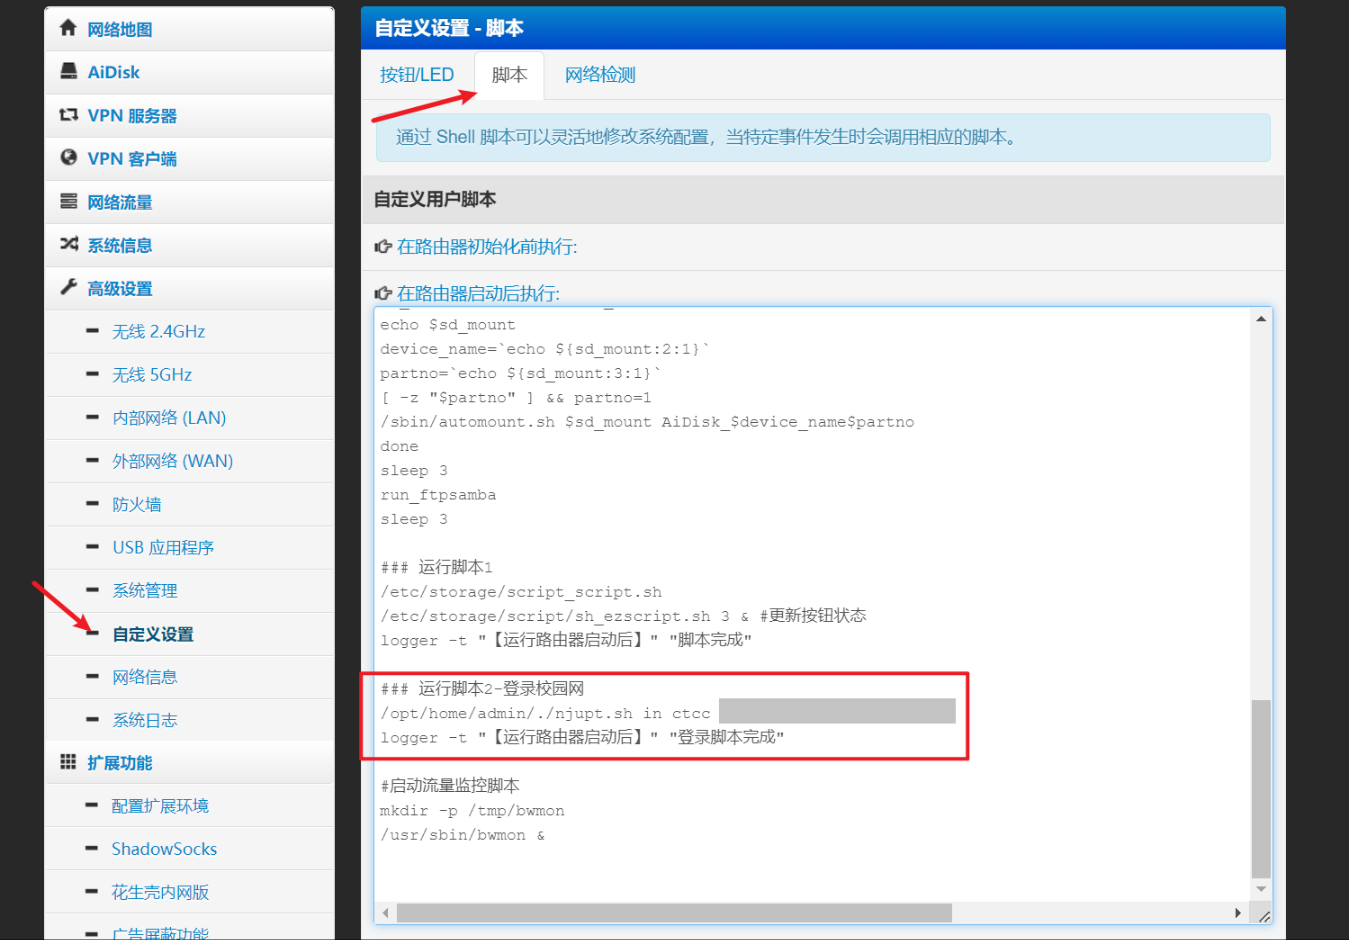
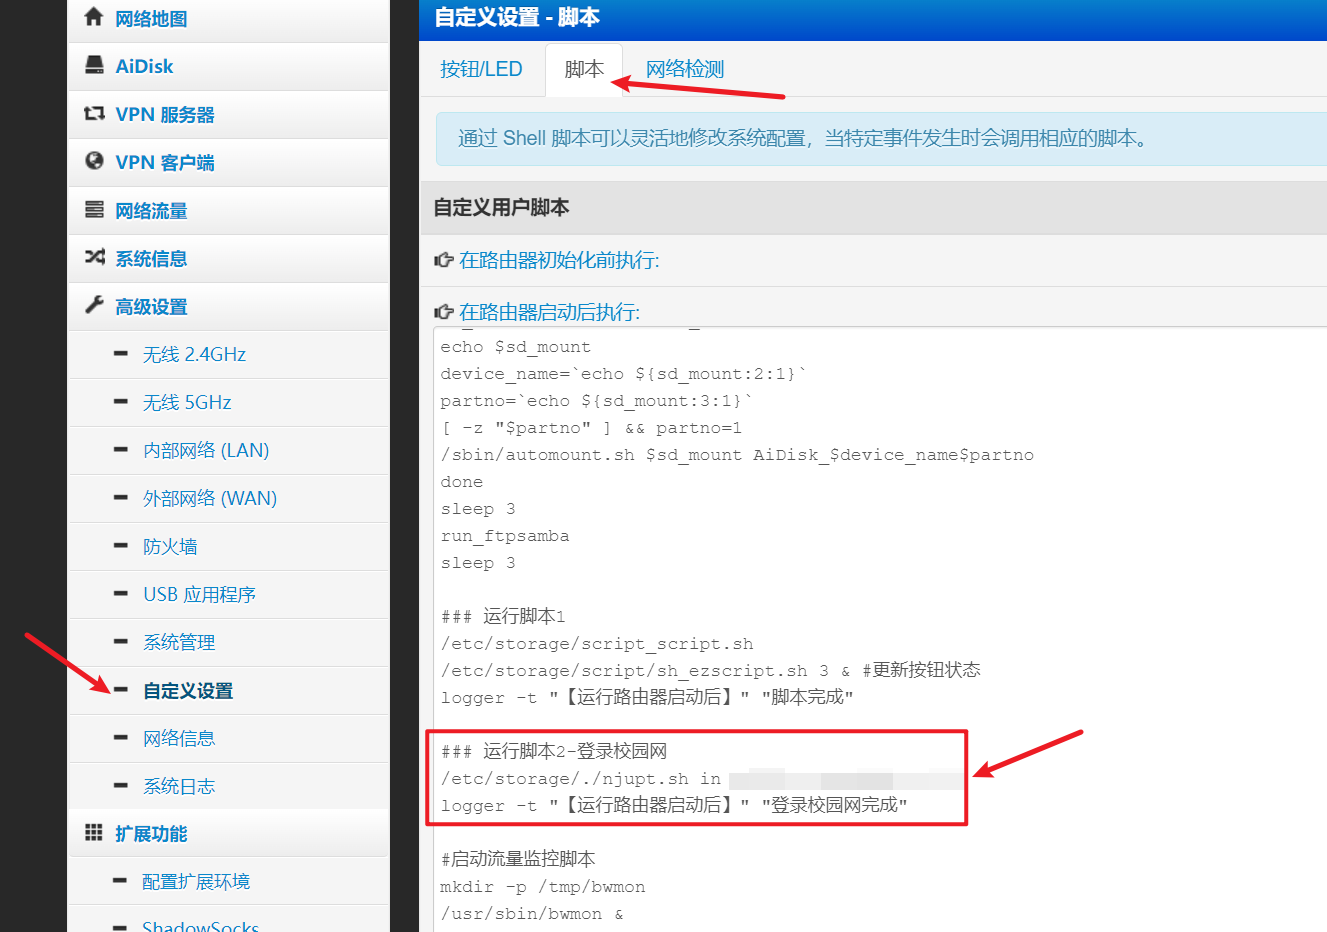
docs(data/README): update README and img

Changed region(s): [[0.0309, 0.0, 1.0, 1.0], [0.7724, 0.7779, 0.8033, 0.809], [0.7106, 0.4667, 0.7415, 0.4979]]

diff --git a/data/README.md b/data/README.md
@@ -317,6 +317,22 @@ njupt 校园网
 当前是电信网！
 ~~~
 
+测试成功后，将该文件移动道`/etc/storage/`路径下（否则系统重启后文件可能丢失）
+
+~~~bash
+cp njupt.sh /etc/storage/
+~~~
+
+移动完毕后，再次执行脚本查看是否能正常使用
+
+~~~bash
+/etc/storage/./njupt.sh in 登录平台 账户 密码
+~~~
+
+如果可以，则进入系统管理后台，找到下图所示位置，点击底部的上传按钮，保存文件
+
+![Snipaste_2022-11-03_19-24-00](../img/Snipaste_2022-11-03_19-24-00.png)
+
 ----
 
 ## 9.Crontab自动登录
@@ -326,14 +342,14 @@ njupt 校园网
 进入路由器的`管理后台-系统管理-服务-计划任务(crontab)`，在里面输入下面的命令进行配置
 
 ~~~
-10 7 * * * /opt/home/admin/./njupt.sh in ctcc 账户 密码
+10 7 * * * /etc/storage/./njupt.sh in ctcc 账户 密码
 ~~~
 
 这个命令的意思是，在每天早上**7点10**的时候，自动登录校园网
 
 ![image-20221027161746982](../img/image-20221027161746982.png)
 
-这里配置完毕之后，点击保存，就一切就绪了
+这里配置完毕之后，**点击保存**，就一切就绪了
 
 明天上午来看看你的路由器有没有自动登录成功吧！
 
@@ -349,7 +365,7 @@ njupt 校园网
 
 ~~~shell
 ### 运行脚本2-登录校园网
-/opt/home/admin/./njupt.sh in 登陆平台 账户 密码 
+/etc/storage/./njupt.sh in 登陆平台 账户 密码 
 logger -t "【运行路由器启动后】" "登录脚本完成"
 ~~~
 

diff --git a/README.md b/README.md
@@ -49,6 +49,14 @@ Router automatically connects to the campus network of Nanjing University of Pos
 如果出现复制内容到用户目录后，重启路由器文件丢失的问题
 >参考这篇博客解决 https://panfake.com/2019/01/padavan-settings-files-lost-after-reboot/
 
+简单而言，便是找到`系统管理-恢复/导出/上传设置`里面，点击`保存/etc/storage内容到闪存`后的**上传**按钮
+
+![Snipaste_2022-11-03_19-24-00](img/Snipaste_2022-11-03_19-24-00.png)
+
+同时也需要修改crontab设置中的脚本路径，应该就OK了
+
+
+
 ## issue/pull request
 
 如在配置过程中遇到了什么问题，可开放issue提出
